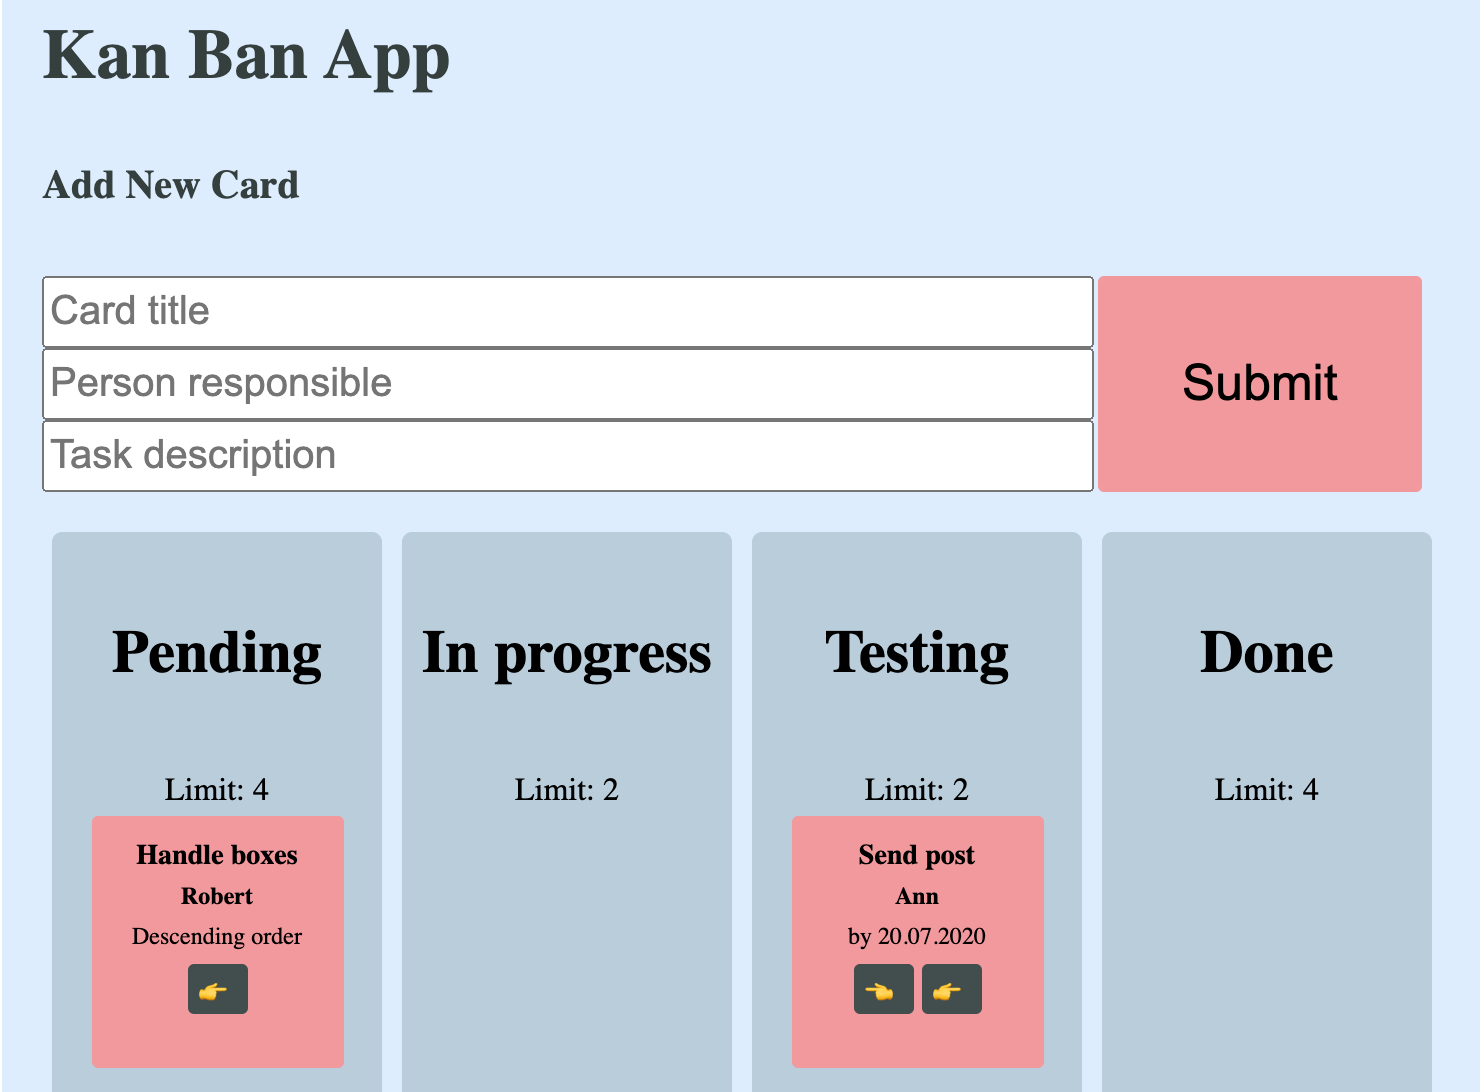
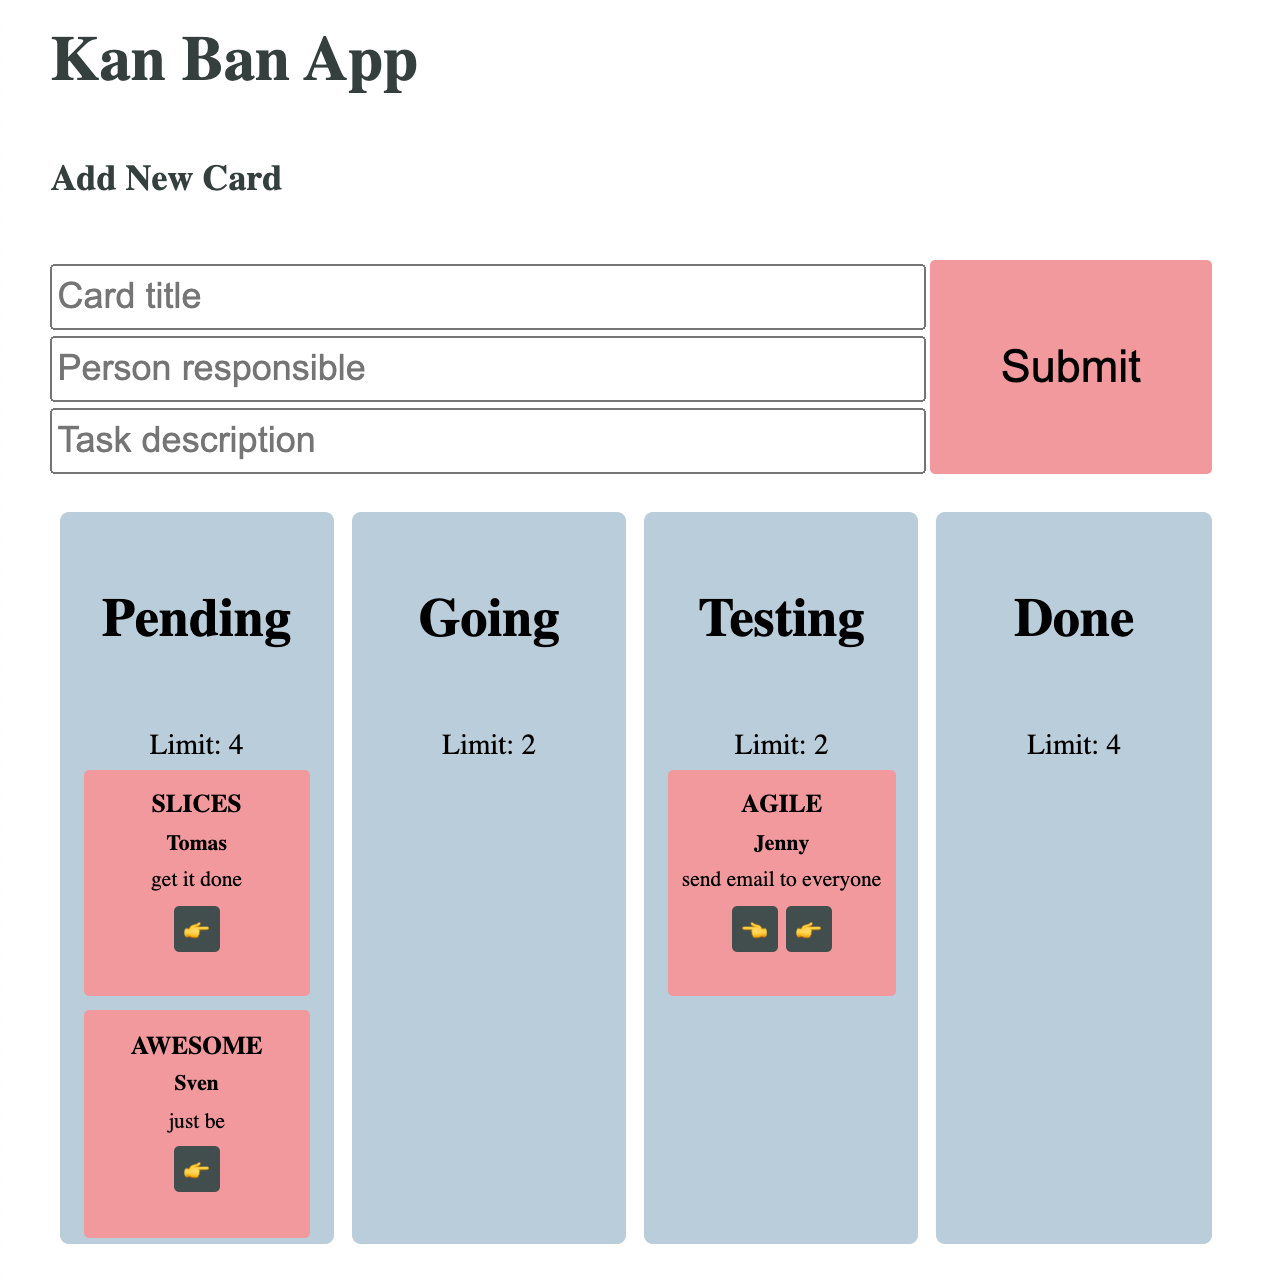
Update Readme, update preview

diff --git a/kan-ban-san/src/components/Form.js b/kan-ban-san/src/components/Form.js
@@ -89,13 +89,13 @@ export default function Form() {
     );
 }
 const submitBtnStyle = {
-    width: '200px',
-    height: '108px',
+    width: '205px',
+    height: '118px',
     backgroundColor: '#F4989C',
     fontSize: '25px',
     borderRadius: '3px',
     border: 'none',
-    margin: '0 10px',
+    margin: '0 5px',
 };
 const formStyle = {
     display: 'flex',

diff --git a/kan-ban-san/src/components/Board.js b/kan-ban-san/src/components/Board.js
@@ -25,11 +25,11 @@ const headerStyle = {
     fontSize: '35px',
 };
 const boardStyle = {
-    backgroundColor: '#DCEDFF',
-    width: '700px',
+    position: 'relative',
     minHeight: '500px',
     padding: '20px',
     borderRadius: '3px',
+    width: '650px',
 };
 const addCardStyle = {
     fontSize: '20px',

diff --git a/kan-ban-san/src/components/Input.js b/kan-ban-san/src/components/Input.js
@@ -18,9 +18,10 @@ export default function Input(props) {
     );
 }
 const inputStyle = {
-    width: '100%',
+    width: '99%',
     height: '30px',
     fontSize: '20px',
+    margin: '2px 0',
 };
 Input.propTypes = {
     name: PropTypes.string.isRequired,

diff --git a/kan-ban-san/data/columns.js b/kan-ban-san/data/columns.js
@@ -7,7 +7,7 @@ const columns = [
         color: '#B9CDDA',
     },
     {
-        title: 'In progress',
+        title: 'Going',
         id: 1,
         cardLimit: 2,
         color: '#B9CDDA',
